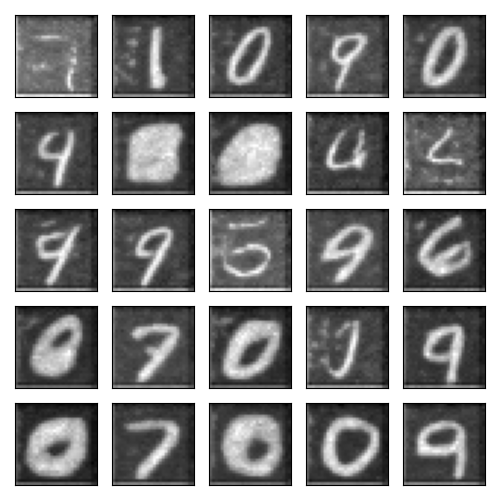
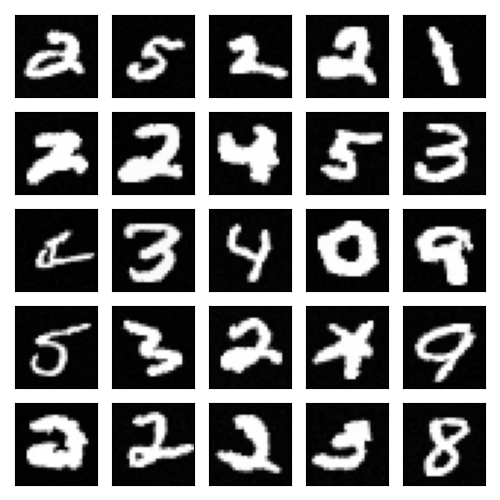
readme example update

diff --git a/README.md b/README.md
@@ -16,9 +16,9 @@ RBM learns to reconstructed an image from hidden -> visible layers, that is not 
 
 Diffusion is a denoising probabilistic model. It is more powerful but is a scored-based model (somewhat different to just energy). Training diffusion is slow, you can give a try in command line:
 ```
-python3 main.py --model_name=diffusion --dataset_name=mnist --n_epochs=10 --learning_rate=0.001
+python3 main.py --model_name=diffusion --dataset_name=mnist --n_epochs=100 --learning_rate=0.001
 ```
-Here is an example of a generated image from denosing diffusion probabilistic models after 10 epochs.
+Here is an example of a generated image from denosing diffusion probabilistic models after 100 epochs.
 
 ![image](assets/diffusion.png)
 
